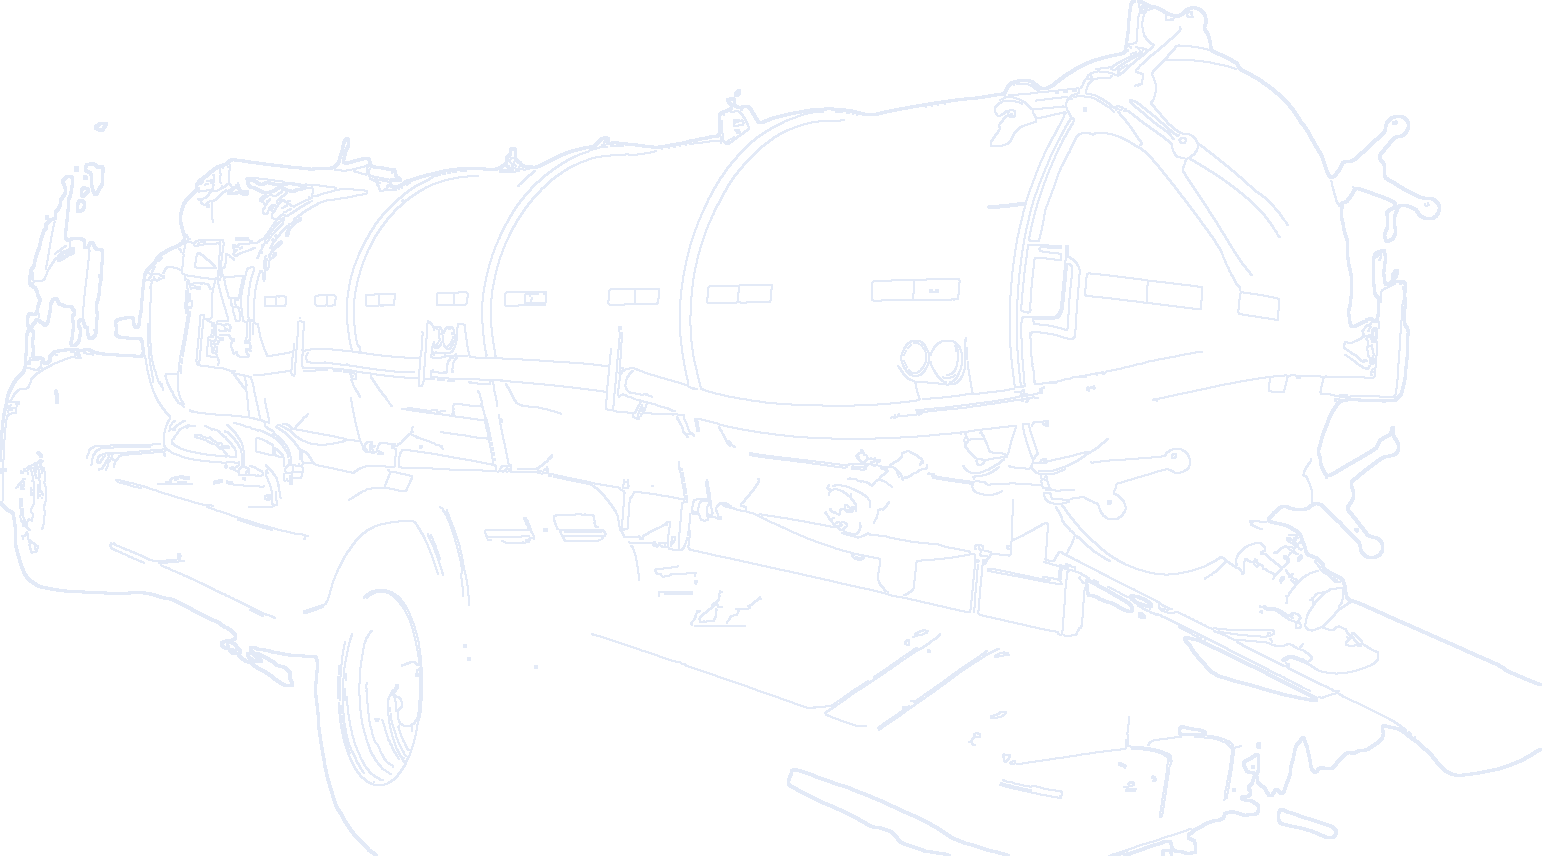
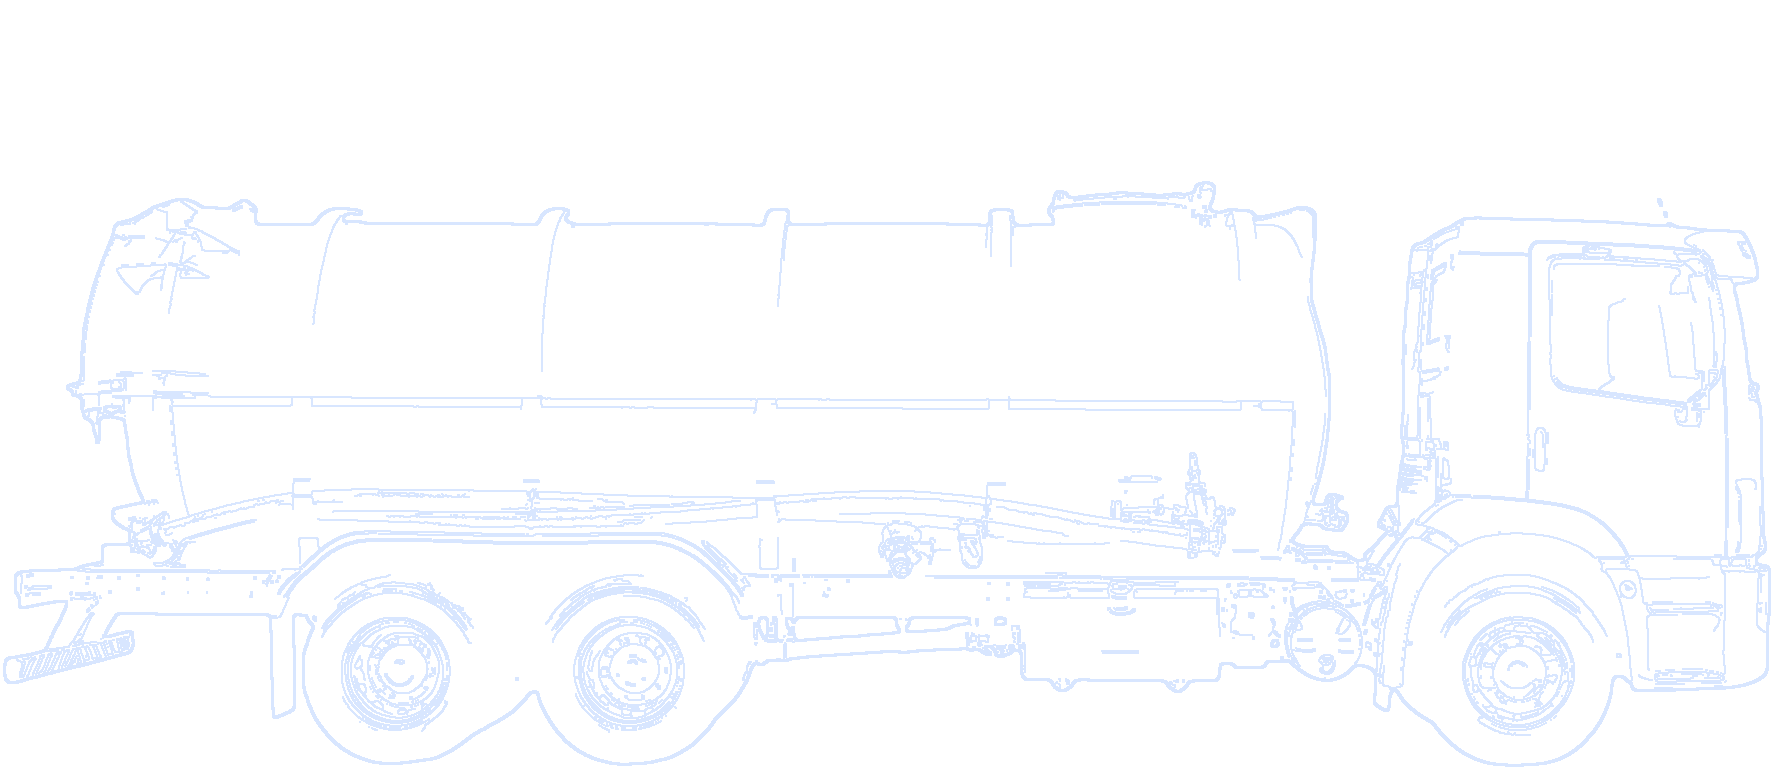
Arquitetura: traço técnico refeito a partir das fotos novas; montagem dentro de um galpão de fábrica
Claude-Session: https://claude.ai/code/session_01UDsS8k2fe5HP8EGaszzLDg

diff --git a/components/sections/FactoryScene.tsx b/components/sections/FactoryScene.tsx
@@ -38,6 +38,48 @@ function caminho(p: { x: number; y: number }[]) {
   return d;
 }
 
+// Galpão da fábrica atrás da montagem (pilares, treliça, janelas altas, piso com faixa de segurança).
+// O piso começa exatamente na linha das rodas ([data-side] fica em bottom: calc(45% - 6svh)).
+function ShopBackdrop() {
+  const FLOOR = "calc(55% + 6svh)";
+  return (
+    <div data-shop aria-hidden="true" className="pointer-events-none absolute inset-0 overflow-hidden">
+      {/* parede de chapa */}
+      <div className="absolute inset-x-0 top-0" style={{ height: FLOOR, background: "linear-gradient(180deg,#d9dee6 0%,#e7eaef 45%,#eef0f3 100%)" }}>
+        <div className="absolute inset-0 opacity-70 [background-image:repeating-linear-gradient(90deg,rgba(20,30,60,.05)_0_2px,transparent_2px_26px)] [mask-image:linear-gradient(to_bottom,black_30%,transparent)]" />
+        {/* janelas altas com luz do dia */}
+        <div className="absolute inset-x-0 top-[17%] flex h-[13%] justify-around px-[6%]">
+          {Array.from({ length: 6 }, (_, i) => (
+            <span key={i} className={`h-full w-[11%] rounded-[2px] border border-[#9aa3b2]/60 ${i > 3 ? "hidden md:block" : ""}`} style={{ background: "linear-gradient(180deg,#f8fbff 0%,#cfe2ff 60%,#b6cdf2 100%)", boxShadow: "0 0 60px 10px rgba(255,255,255,.55)" }}>
+              <span className="block h-full w-full [background-image:linear-gradient(90deg,transparent_48%,rgba(120,130,150,.5)_48%_52%,transparent_52%)]" />
+            </span>
+          ))}
+        </div>
+        {/* treliça do telhado */}
+        <svg className="absolute inset-x-0 top-0 h-[13%] w-full" viewBox="0 0 1600 100" preserveAspectRatio="none">
+          <rect y="0" width="1600" height="8" fill="#3a4150" />
+          <rect y="92" width="1600" height="8" fill="#3a4150" />
+          <path d={Array.from({ length: 33 }, (_, i) => `${i ? "L" : "M"}${i * 50},${i % 2 ? 8 : 92}`).join(" ")} fill="none" stroke="#4a5263" strokeWidth="5" />
+        </svg>
+        {/* pilares de aço (perfil I) */}
+        <div className="absolute inset-x-0 bottom-0 top-[13%] flex justify-between px-[2%]">
+          {Array.from({ length: 7 }, (_, i) => (
+            <span key={i} className={`h-full w-[clamp(14px,1.6vw,28px)] ${i % 2 && i !== 3 ? "hidden md:block" : ""}`} style={{ background: "linear-gradient(90deg,#2b3240 0 18%,#5b6577 18% 30%,#7d8799 30% 70%,#5b6577 70% 82%,#2b3240 82%)" }} />
+          ))}
+        </div>
+        <p className="display absolute bottom-[5%] left-[4%] hidden text-[clamp(22px,2.4vw,44px)] leading-none text-[#061CE0]/[.10] md:block">SETOR DE MONTAGEM · 03</p>
+        <div className="absolute inset-x-0 bottom-0 h-[30%] bg-gradient-to-t from-black/[.06] to-transparent" />
+      </div>
+      {/* piso de concreto */}
+      <div className="absolute inset-x-0 bottom-0" style={{ top: FLOOR, background: "linear-gradient(180deg,#b9bec6 0%,#cdd1d7 30%,#d8dbe0 100%)" }}>
+        <div className="h-[clamp(8px,1.1svh,14px)] w-full [background-image:repeating-linear-gradient(-45deg,#FFC400_0_16px,#15161a_16px_32px)]" />
+        <div className="absolute inset-x-0 top-[38%] h-[3px] bg-[#FFC400]/80" />
+        <div className="absolute inset-0 opacity-40 [background-image:radial-gradient(rgba(0,0,0,.12)_1px,transparent_1px)] [background-size:7px_7px]" />
+      </div>
+    </div>
+  );
+}
+
 export default function FactoryScene({ real }: { real: RealAssets }) {
   const film = real.nossosTanques; // vídeo do caminhão andando e trocando de tanque (controlado pelo scroll)
   const photoSide = !film && !!real.lateral[0];
@@ -191,7 +233,8 @@ export default function FactoryScene({ real }: { real: RealAssets }) {
         if (!truckRoad.current) truckRoad.current = createTruckRoad(cvEl, fabrica.nossos.toUpperCase());
         const seek = () => truckRoad.current?.set(vt.t);
         tl.to(q("[data-film]"), { autoAlpha: 1, duration: 0.45 }, 2.05)
-          .to(q("[data-assembly]"), { autoAlpha: 0, duration: 0.45 }, 2.05);
+          .to(q("[data-assembly]"), { autoAlpha: 0, duration: 0.45 }, 2.05)
+          .to(q("[data-shop]"), { autoAlpha: 0, duration: 0.45 }, 2.0);
         // pontos-chave: tanque exibido em sincronia com a coluna ativa (água, combustível, —, saneamento, agrícola)
         const keys: [number, number][] = desktop
           ? [[2.1, 0], [4.5, 1.6], [5.2, 4.4], [5.9, 5.8], [6.6, 7.3], [7.3, 10.1], [t + 0.8, 13.5]]
@@ -283,6 +326,7 @@ export default function FactoryScene({ real }: { real: RealAssets }) {
       <div data-stage className="relative h-[100svh] overflow-hidden motion-reduce:hidden">
         {/* Camada lateral (2a–2c) */}
         <div data-side-layer className="absolute inset-0">
+          <ShopBackdrop />
           <HeroBackdrop />
           <p data-a-label className="label label-slash absolute left-4 top-24 text-ink/70 md:left-8 md:top-32">{fabrica.label}</p>
 
